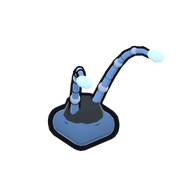
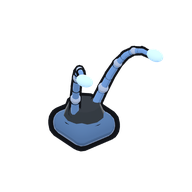
Sensor mounts nearly rigid; antenna stalks sway on their own
Sensors had the loosest joint (give 1.3, ~1.9 when stacked), so antennae
floated around on the head. Mount now give 0.15; the stalks keep their own
sway (a bit livelier, swept back by speed).

Claude-Session: https://claude.ai/code/session_01FT8aJXgYMDZrr4uHJvcXkr

diff --git a/src/render/models.ts b/src/render/models.ts
@@ -848,8 +848,9 @@ export function buildPart(partId: string, side: number, row = 0): PartModel {
         }
         animate = ({ t, speed }) => {
           stalks.forEach(({ g, d }) => {
-            g.rotation.x = Math.sin(t * 2.1 + d + row) * 0.1 + speed * 0.35;
-            g.rotation.z = Math.sin(t * 1.5 + d * 2) * 0.08;
+            // Swept back by speed, with a springy twitch at the tips.
+            g.rotation.x = Math.sin(t * 2.1 + d + row) * 0.12 + speed * 0.4 + Math.sin(t * 9 + d) * 0.03 * speed;
+            g.rotation.z = Math.sin(t * 1.5 + d * 2) * 0.1;
           });
           tipMat.emissiveIntensity = 0.6 + Math.sin(t * 3 + row) * 0.4;
         };

diff --git a/src/render/flex.ts b/src/render/flex.ts
@@ -21,7 +21,7 @@ export const GIVE: Record<Category, number> = {
   abdomen: 0.6,
   legs: 0.75,
   wings: 0.12, // bolted-on mount: the bug moves with its wings (the membranes still beat)
-  sensor: 1.3,
+  sensor: 0.15, // the mount is bolted on; the antenna stalks sway on their own (models.ts)
   mandibles: 0.6,
   pincers: 0.6,
   stinger: 0.75,

diff --git a/docs/GDD.md b/docs/GDD.md
@@ -10,7 +10,7 @@ RoBugs is an original 3D mobile game. You collect robotic bug parts, snap them o
 |---|---|
 | Dimension | **3D.** `expo-gl` + `three`; the sim stays 2D on the arena floor plane and the renderer lifts it into 3D. |
 | Art style | Cartoony and chunky: rounded toy-robot parts, bright colours, toon shading and bold outlines. All our own designs. Every catalog part has its own model. Parts animate: a walking gait tied to distance travelled, body bob and lean into turns, jaws and claws that snap when they strike, flapping wings, swaying antennae. |
-| Joint physics | Parts hang off their neighbours through damped springs (`src/render/flex.ts`, cosmetic only, so the sim stays deterministic). Wing mounts are the exception: they're bolted on nearly rigid, so the bug lifts with its wings (only the membranes beat). Parts lag and bounce when the bug accelerates, turns, flies, is hit, or is lifted by a move; the sway ripples out to the tips (legs, wings, antennae), and struts stretch to follow. On top of that the body has a **bendy spine** (`src/render/spine.ts`): each row of parts is a segment joined by a springy joint. On turns the rear segments lag and swing out while the front leads a little; walking adds a side-to-side sway and an up-and-down ripple that travels from head to tail; flying adds a slow swim; and hits knock the nearest joint so the whole body wobbles (crits harder). |
+| Joint physics | Parts hang off their neighbours through damped springs (`src/render/flex.ts`, cosmetic only, so the sim stays deterministic). Wing and sensor mounts are the exception: they're bolted on nearly rigid, so the bug lifts with its wings (only the membranes beat) and antennae don't wobble off the head (only the stalks sway). Parts lag and bounce when the bug accelerates, turns, flies, is hit, or is lifted by a move; the sway ripples out to the tips (legs, wings, antennae), and struts stretch to follow. On top of that the body has a **bendy spine** (`src/render/spine.ts`): each row of parts is a segment joined by a springy joint. On turns the rear segments lag and swing out while the front leads a little; walking adds a side-to-side sway and an up-and-down ripple that travels from head to tail; flying adds a slow swim; and hits knock the nearest joint so the whole body wobbles (crits harder). |
 | UI style | Chunky "workshop" look: Lilita One display font for titles, buttons and numbers; raised buttons with a lip that presses down; rounded panels with a lit top edge. The hub shows your bug turning on a lit pedestal (live 3D), a next-fight card with the opponent's portrait, and Garage/Campaign tiles. The campaign map uses rendered opponent portraits as nodes (black silhouettes while locked, a ✓ when beaten, a crown on bosses). Results open with a pop-in VICTORY/DEFEAT title over the opponent's portrait. |
 | Part models | Rounded toon shapes with outlines and a soft rim light, all built from primitives and small procedural textures. Legs have an armoured upper segment and a knee that folds as the foot lifts (and tucks up in flight). Wings have veined, gradient membranes; foil wings are beetle wing cases that lift open so the membranes can beat. Heads blink or sweep a visor scanner; vents, fluids and cores glow. |
 | Garage feedback | The selected part gets a bright amber outline, a bobbing arrow and a soft glow while the rest of the bug dims; a SELECTED chip on the editor names it with Remove / ✕. A status bar pinned under the 3D editor always shows what the bug STILL NEEDS (red) or ✓ READY TO FIGHT with a Fight button (green). |
